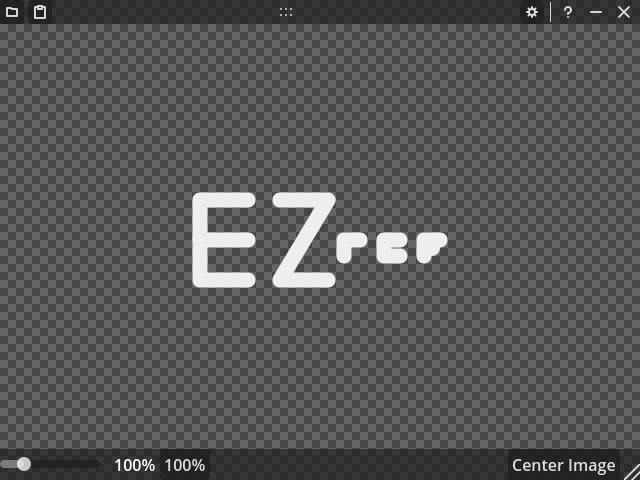
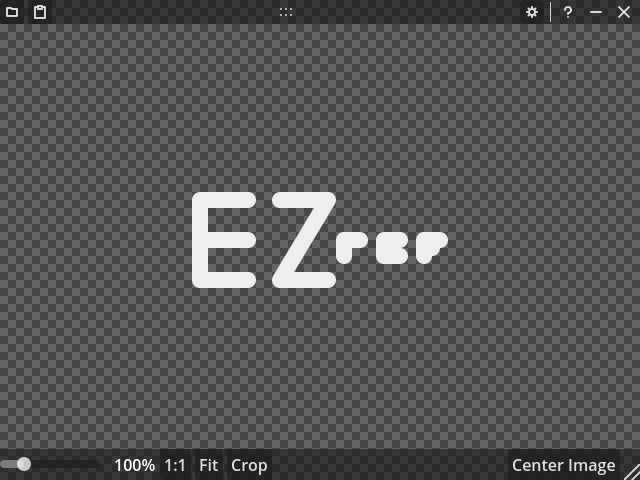
Added "Fit" and "Crop" buttons
See the README for information on how they work.
Also:
- Renamed the "100%" button to "1:1".
- Updated copyright information.

Changed region(s): [[0.2812, 0.9375, 0.3438, 1.0], [0.375, 0.9375, 0.4062, 1.0], [0.625, 0.5, 0.6562, 0.5312]]

diff --git a/CHANGELOG.md b/CHANGELOG.md
@@ -14,6 +14,8 @@ Some freshening up after over a year.
     of only the top bar appearing when the mouse is near the top), removing the
     need for the "Lock Pan/Zoom" toggle.
   - Added tooltips to most of the interactive UI elements.
+  - Renamed the "100%" button "1:1" to avoid the UI confusingly reading
+    "100% 100%".
 - Fixed the jank with zooming.
 - Shortcuts with <kbd>Ctrl</kbd> now also accept <kbd>⌘</kbd> (although this
   program still isn't exported to MacOS).
@@ -21,6 +23,8 @@ Some freshening up after over a year.
   - The close and minimize buttons are now part of the upper toolbar.
   - Due to some limitations, an extra button was added to resize the window.
 - Added a checkered background.
+- Added a "Fit to Screen" button.
+- Added a "Crop" button.
 - Added a help window.
 - Added a "Display Settings" window.
   - `Filter` is the original `Nearest Neighbor` toggle.

diff --git a/README.md b/README.md
@@ -50,7 +50,17 @@ some controls:
   <kbd>Ctrl</kbd>+<kbd>=</kbd>/<kbd>Ctrl</kbd>+<kbd>-</kbd>) can be used to zoom
   in and out.
 
-- The `100%` button (<kbd>Ctrl</kbd>+<kbd>0</kbd>) resets the zoom back to 100%.
+- The `1:1` button (<kbd>Ctrl</kbd>+<kbd>0</kbd>) resets the zoom back to 100%.
+
+- The `Fit` button fits the image to the window.
+
+- The `Crop` button moves and resizes the window such that it exactly fits
+  the image.
 
 Additionally, you can click + drag to pan the image. `Center Image` resets
 the panning.
+
+## License
+
+This project is under the MIT License. [Click here for more
+information](./LICENSE).
